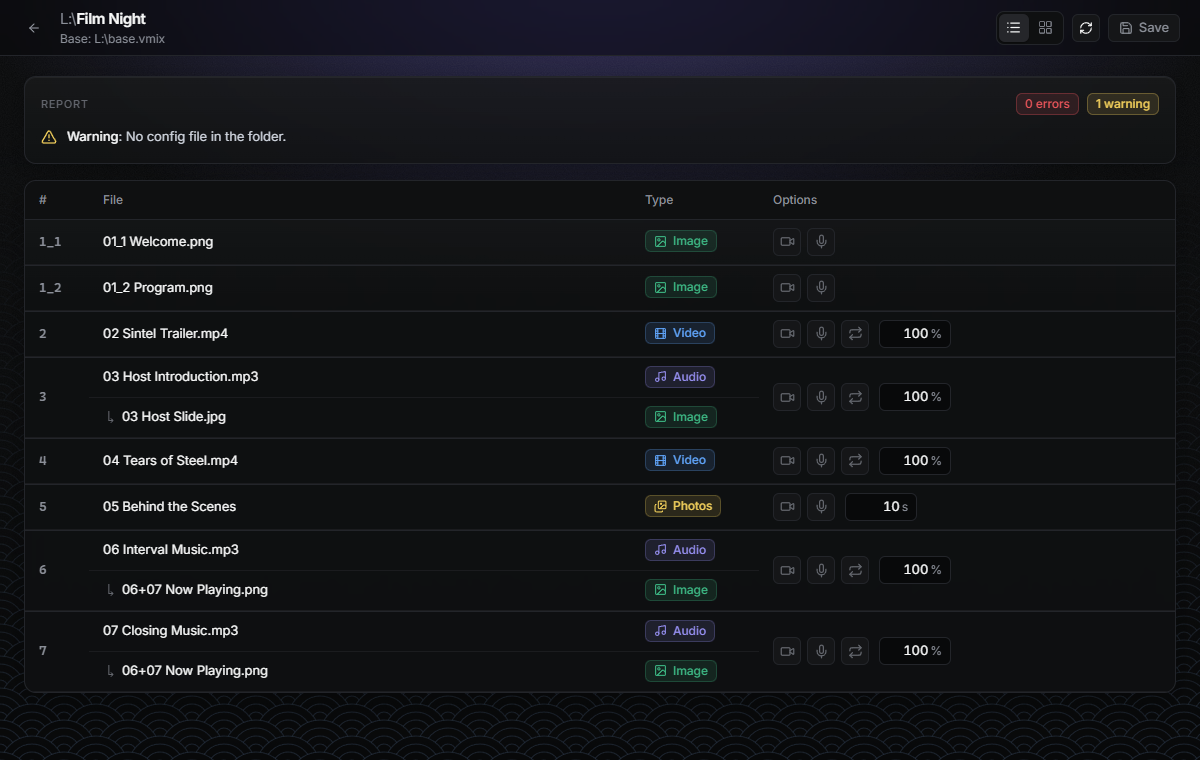
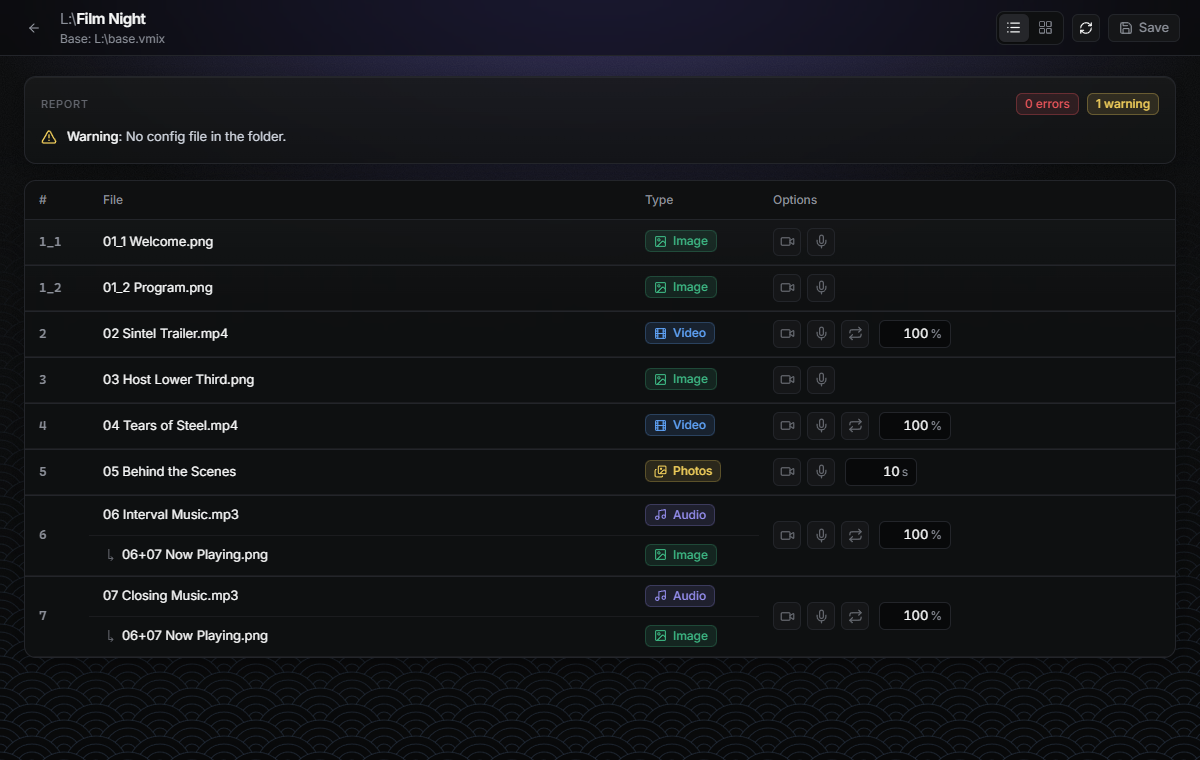
Show camera and mic on a lower-third slide in the README demo
Replace the host audio and slide with a transparent lower third, so turning
on the camera visibly changes the preview in the GIF and screenshots.

diff --git a/README.md b/README.md
@@ -14,9 +14,9 @@ _Number your files. Get a ready-to-run vMix playlist._
 | [Download](#download) | [Documentation](https://live-miracles.github.io/projects/folder-player/docs/) | [Report a bug](https://github.com/live-miracles/folder-player/issues/new) |
 | --------------------- | ----------------------------------------------------------------------------- | ------------------------------------------------------------------------- |
 
-[![vMix Folder Player: pick a folder, review the playlist, turn on the camera for one item, save, and create the vMix preset](assets/folder-player-demo.gif)](assets/folder-player-config-preview.png)
+[![vMix Folder Player: pick a folder, review the playlist, turn on the camera and mic for the host's lower third, save, and create the vMix preset](assets/folder-player-demo.gif)](assets/folder-player-config-preview.png)
 
-_Pick a folder, review the playlist, turn on the camera for one item, save, and create the preset. Demo media: Blender Foundation open movies ([credits](assets/CREDITS.md)). Select the demo for a full-size still._
+_Pick a folder, review the playlist, turn on the camera and mic for the host's lower third, save, and create the preset. Demo media: Blender Foundation open movies ([credits](assets/CREDITS.md)). Select the demo for a full-size still._
 
 **Saves you setup time before every session? [Download Folder Player](https://github.com/live-miracles/folder-player/releases/latest) and [give it a star](https://github.com/live-miracles/folder-player) to help other vMix operators find it.**
 
@@ -25,7 +25,7 @@ _Pick a folder, review the playlist, turn on the camera for one item, save, and 
 ## Features
 
 - **The folder is the playlist.** File names set the order: `01`, `02`, `03`… Anything without a number, like `Notes.txt`, is ignored.
-- **Overlays by naming.** Give an image the same number as an audio or video file and it becomes that item's overlay. `04+06 Lyrics.png` reuses one overlay on items 4 and 6.
+- **Overlays by naming.** Give an image the same number as an audio or video file and it becomes that item's overlay. `06+07 Now Playing.png` reuses one overlay on items 6 and 7.
 - **Every common input type.** Images, video, audio, folders of photos (played as a slideshow) and PowerPoint `.pptx` decks.
 - **Camera and mic layers.** Turn the `Cam` and `Mic` inputs from your base preset on or off for each item, set its volume and loop, and set the slide time for slideshows.
 - **Your base preset, extended.** Your cameras, mics and outputs stay as you set them up in `base.vmix`; the playlist is added on top.
@@ -41,13 +41,12 @@ Film Night
   |-- 01_1 Welcome.png          <- 01_1 and 01_2 play in order as item 1
   |-- 01_2 Program.png
   |-- 02 Sintel Trailer.mp4
-  |-- 03 Host Introduction.mp3
-  |-- 03 Host Slide.jpg         <- same number: overlay on the audio
+  |-- 03 Host Lower Third.png   <- transparent PNG: turn on Cam and Mic to put the host on camera
   |-- 04 Tears of Steel.mp4
   |-- 05 Behind the Scenes      <- folder of photos: slideshow
   |-- 06 Interval Music.mp3
   |-- 07 Closing Music.mp3
-  |-- 06+07 Now Playing.png     <- one overlay reused on items 6 and 7
+  |-- 06+07 Now Playing.png     <- overlay on the audio, reused on items 6 and 7
   |-- Notes.txt                 <- no number: ignored
 ```
 
